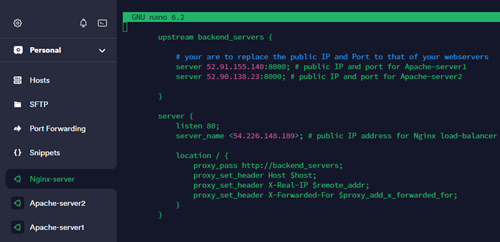
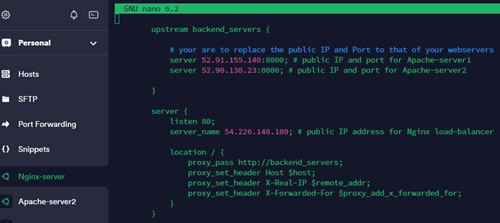
Updated project documentation and images

diff --git a/PROJECT 7/Project7.md b/PROJECT 7/Project7.md
@@ -307,7 +307,7 @@ The file will be populated with the below information:
 
         server {
             listen 80;
-            server_name <54.226.148.189>; # public IP address for Nginx load-balancer
+            server_name 54.226.148.189; # public IP address for Nginx load-balancer
 
             location / {
                 proxy_pass http://backend_servers;
@@ -317,6 +317,8 @@ The file will be populated with the below information:
             }
         }
 ```
+
+![Alt text](Images/nginx-config-file.png)
 
 **Step 2**
 
@@ -329,6 +331,15 @@ Test the configuration on `Nginx-server` by running the command `sudo nginx -t`
 Restart Nginx to load the new configuration by running the command `sudo systemctl restart nginx`
 
 ![Alt text](Images/nginx-restart.png)
+
+**Step 4**
+
+Check to see if content from `Apache-server1` and `Apache-server2` can be displayed on the `Nginx-server` web browser using the load balancer's public IP address
+
+![Alt text](Images/nginx-apache1-webpage.png)
+
+![Alt text](Images/nginx-apache2-webpage.png)
+
 
 
 
